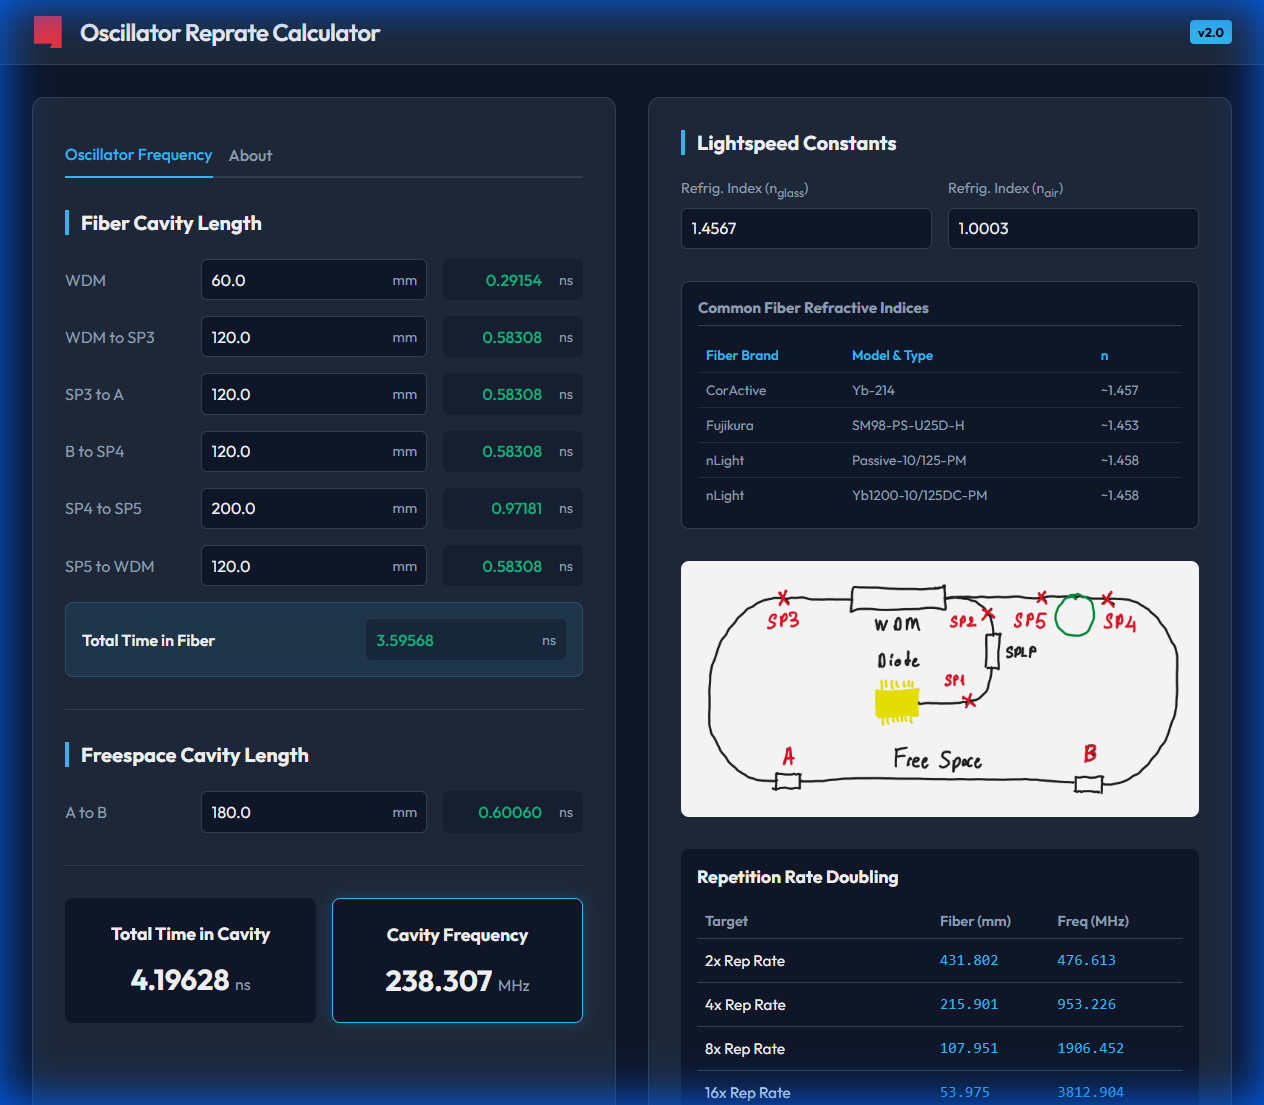
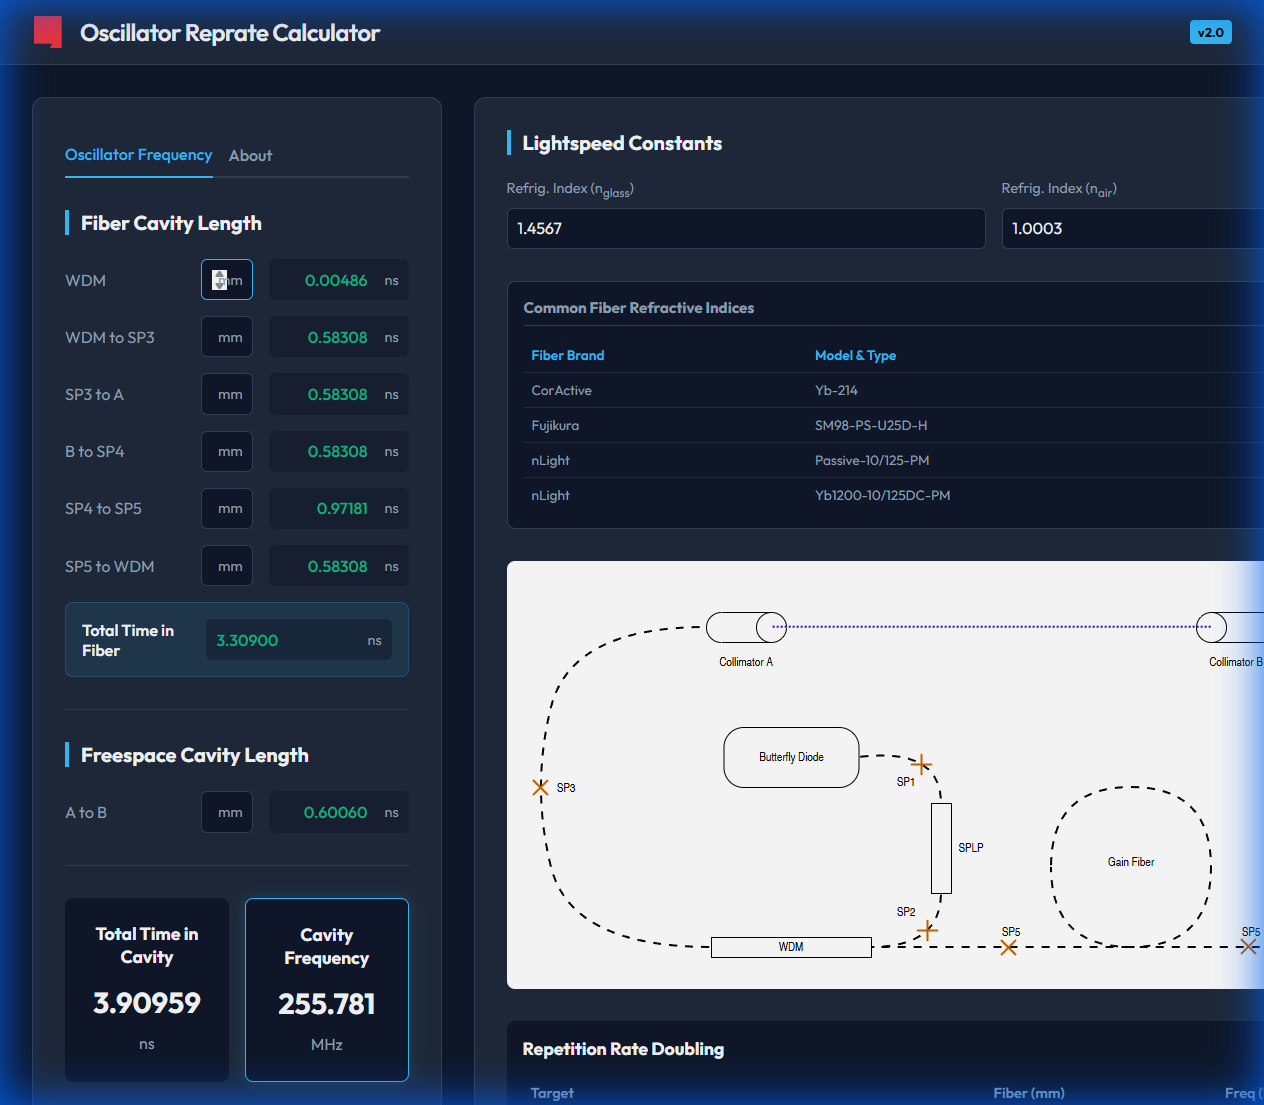
docs: integrate HTML diagram, update readme and screenshot

diff --git a/index.html b/index.html
@@ -228,7 +228,11 @@
             </div>
 
             <div class="diagram-container">
-                <img src="Osc_Diagram.png" alt="Oscillator Diagram">
+                <!-- Embedded Diagram from Osc_Diagram.html -->
+                <div class="mxgraph" style="max-width:100%;border:1px solid transparent;"
+                    data-mxgraph="{&quot;highlight&quot;:&quot;#0000ff&quot;,&quot;nav&quot;:true,&quot;resize&quot;:true,&quot;xml&quot;:&quot;&lt;mxfile host=\&quot;app.diagrams.net\&quot; agent=\&quot;Mozilla/5.0 (Windows NT 10.0; Win64; x64) AppleWebKit/537.36 (KHTML, like Gecko) Chrome/144.0.0.0 Safari/537.36\&quot; version=\&quot;29.3.2\&quot;&gt;&lt;diagram name=\&quot;Page-1\&quot; id=\&quot;DjPBM7zYsvmnyVw7-Pmg\&quot;&gt;&lt;mxGraphModel dx=\&quot;1178\&quot; dy=\&quot;632\&quot; grid=\&quot;1\&quot; gridSize=\&quot;10\&quot; guides=\&quot;1\&quot; tooltips=\&quot;1\&quot; connect=\&quot;1\&quot; arrows=\&quot;1\&quot; fold=\&quot;1\&quot; page=\&quot;1\&quot; pageScale=\&quot;1\&quot; pageWidth=\&quot;1024\&quot; pageHeight=\&quot;512\&quot; math=\&quot;0\&quot; shadow=\&quot;0\&quot;&gt;&lt;root&gt;&lt;mxCell id=\&quot;0\&quot;/&gt;&lt;mxCell id=\&quot;1\&quot; parent=\&quot;0\&quot;/&gt;&lt;mxCell id=\&quot;BOdt_IUTqq0hoijW-HzN-1\&quot; parent=\&quot;1\&quot; style=\&quot;shape=cylinder3;whiteSpace=wrap;html=1;boundedLbl=1;backgroundOutline=1;size=15;rotation=90;\&quot; value=\&quot;\&quot; vertex=\&quot;1\&quot;&gt;&lt;mxGeometry height=\&quot;80\&quot; width=\&quot;30\&quot; x=\&quot;240\&quot; y=\&quot;40\&quot; as=\&quot;geometry\&quot;/&gt;&lt;/mxCell\&gt;&lt;mxCell id=\&quot;BOdt_IUTqq0hoijW-HzN-2\&quot; parent=\&quot;1\&quot; style=\&quot;shape=cylinder3;whiteSpace=wrap;html=1;boundedLbl=1;backgroundOutline=1;size=15;rotation=-90;\&quot; value=\&quot;\&quot; vertex=\&quot;1\&quot;&gt;&lt;mxGeometry height=\&quot;80\&quot; width=\&quot;30\&quot; x=\&quot;730\&quot; y=\&quot;40\&quot; as=\&quot;geometry\&quot;/&gt;&lt;/mxCell\&gt;&lt;mxCell id=\&quot;BOdt_IUTqq0hoijW-HzN-4\&quot; edge=\&quot;1\&quot; parent=\&quot;1\&quot; style=\&quot;endArrow=none;dashed=1;html=1;rounded=1;fillColor=#6a00ff;strokeColor=light-dark(#3700CC,#990000);flowAnimation=1;dashPattern=1 1;strokeWidth=2;curved=0;\&quot; value=\&quot;\&quot;&gt;&lt;mxGeometry height=\&quot;50\&quot; relative=\&quot;1\&quot; width=\&quot;50\&quot; as=\&quot;geometry\&quot;&gt;&lt;mxPoint x=\&quot;280\&quot; y=\&quot;79.71000000000001\&quot; as=\&quot;sourcePoint\&quot;/&gt;&lt;mxPoint x=\&quot;720\&quot; y=\&quot;79.71000000000001\&quot; as=\&quot;targetPoint\&quot;/&gt;&lt;/mxGeometry\&gt;&lt;/mxCell\&gt;&lt;mxCell id=\&quot;BOdt_IUTqq0hoijW-HzN-8\&quot; edge=\&quot;1\&quot; parent=\&quot;1\&quot; source=\&quot;BOdt_IUTqq0hoijW-HzN-15\&quot; style=\&quot;curved=1;endArrow=none;html=1;rounded=0;endFill=0;entryX=0.5;entryY=1;entryDx=0;entryDy=0;entryPerimeter=0;flowAnimation=1;strokeWidth=2;exitX=0;exitY=0.5;exitDx=0;exitDy=0;\&quot; target=\&quot;BOdt_IUTqq0hoijW-HzN-1\&quot; value=\&quot;\&quot;&gt;&lt;mxGeometry height=\&quot;50\&quot; relative=\&quot;1\&quot; width=\&quot;50\&quot; as=\&quot;geometry\&quot;&gt;&lt;Array as=\&quot;points\&quot;&gt;&lt;mxPoint x=\&quot;80\&quot; y=\&quot;400\&quot;/&gt;&lt;mxPoint x=\&quot;40\&quot; y=\&quot;240\&quot;/&gt;&lt;mxPoint x=\&quot;80\&quot; y=\&quot;80\&quot;/&gt;&lt;/Array\&gt;&lt;mxPoint x=\&quot;215\&quot; y=\&quot;400\&quot; as=\&quot;sourcePoint\&quot;/&gt;&lt;mxPoint x=\&quot;210\&quot; y=\&quot;80\&quot; as=\&quot;targetPoint\&quot;/&gt;&lt;/mxGeometry\&gt;&lt;/mxCell\&gt;&lt;mxCell id=\&quot;BOdt_IUTqq0hoijW-HzN-15\&quot; parent=\&quot;1\&quot; style=\&quot;rounded=0;whiteSpace=wrap;html=1;\&quot; value=\&quot;WDM\&quot; vertex=\&quot;1\&quot;&gt;&lt;mxGeometry height=\&quot;20\&quot; width=\&quot;160\&quot; x=\&quot;220\&quot; y=\&quot;390\&quot; as=\&quot;geometry\&quot;/&gt;&lt;/mxCell\&gt;&lt;mxCell id=\&quot;BOdt_IUTqq0hoijW-HzN-16\&quot; edge=\&quot;1\&quot; parent=\&quot;1\&quot; source=\&quot;BOdt_IUTqq0hoijW-HzN-17\&quot; style=\&quot;curved=1;endArrow=none;html=1;rounded=0;endFill=0;strokeWidth=2;flowAnimation=1;exitX=1;exitY=0.5;exitDx=0;exitDy=0;entryX=0.5;entryY=0;entryDx=0;entryDy=0;\&quot; target=\&quot;BOdt_IUTqq0hoijW-HzN-21\&quot; value=\&quot;\&quot;&gt;&lt;mxGeometry height=\&quot;50\&quot; relative=\&quot;1\&quot; width=\&quot;50\&quot; as=\&quot;geometry\&quot;&gt;&lt;Array as=\&quot;points\&quot;&gt;&lt;mxPoint x=\&quot;450\&quot; y=\&quot;200\&quot;/&gt;&lt;/Array\&gt;&lt;mxPoint x=\&quot;380\&quot; y=\&quot;240\&quot; as=\&quot;sourcePoint\&quot;/&gt;&lt;mxPoint x=\&quot;480\&quot; y=\&quot;270\&quot; as=\&quot;targetPoint\&quot;/&gt;&lt;/mxGeometry\&gt;&lt;/mxCell\&gt;&lt;mxCell id=\&quot;BOdt_IUTqq0hoijW-HzN-17\&quot; parent=\&quot;1\&quot; style=\&quot;rounded=1;whiteSpace=wrap;html=1;perimeterSpacing=0;arcSize=33;\&quot; value=\&quot;Butterfly Diode\&quot; vertex=\&quot;1\&quot;&gt;&lt;mxGeometry height=\&quot;60\&quot; width=\&quot;135\&quot; x=\&quot;232.5\&quot; y=\&quot;180\&quot; as=\&quot;geometry\&quot;/&gt;&lt;/mxCell\&gt;&lt;mxCell id=\&quot;BOdt_IUTqq0hoijW-HzN-18\&quot; parent=\&quot;1\&quot; style=\&quot;text;html=1;whiteSpace=wrap;strokeColor=none;fillColor=none;align=center;verticalAlign=middle;rounded=0;autosize=1;resizable=0;\&quot; value=\&quot;Collimator A\&quot; vertex=\&quot;1\&quot;&gt;&lt;mxGeometry height=\&quot;30\&quot; width=\&quot;90\&quot; x=\&quot;210\&quot; y=\&quot;100\&quot; as=\&quot;geometry\&quot;/&gt;&lt;/mxCell\&gt;&lt;mxCell id=\&quot;BOdt_IUTqq0hoijW-HzN-19\&quot; parent=\&quot;1\&quot; style=\&quot;text;html=1;whiteSpace=wrap;strokeColor=none;fillColor=none;align=center;verticalAlign=middle;rounded=0;autosize=1;resizable=0;\&quot; value=\&quot;Collimator B\&quot; vertex=\&quot;1\&quot;&gt;&lt;mxGeometry height=\&quot;30\&quot; width=\&quot;90\&quot; x=\&quot;700\&quot; y=\&quot;100\&quot; as=\&quot;geometry\&quot;/&gt;&lt;/mxCell\&gt;&lt;mxCell id=\&quot;BOdt_IUTqq0hoijW-HzN-21\&quot; parent=\&quot;1\&quot; style=\&quot;rounded=0;whiteSpace=wrap;html=1;\&quot; value=\&quot;\&quot; vertex=\&quot;1\&quot;&gt;&lt;mxGeometry height=\&quot;90\&quot; width=\&quot;20\&quot; x=\&quot;440\&quot; y=\&quot;256\&quot; as=\&quot;geometry\&quot;/&gt;&lt;/mxCell\&gt;&lt;mxCell id=\&quot;BOdt_IUTqq0hoijW-HzN-22\&quot; edge=\&quot;1\&quot; parent=\&quot;1\&quot; source=\&quot;BOdt_IUTqq0hoijW-HzN-21\&quot; style=\&quot;curved=1;endArrow=none;html=1;rounded=0;endFill=0;strokeWidth=2;flowAnimation=1;exitX=0.5;exitY=1;exitDx=0;exitDy=0;entryX=1;entryY=0.5;entryDx=0;entryDy=0;\&quot; target=\&quot;BOdt_IUTqq0hoijW-HzN-15\&quot; value=\&quot;\&quot;&gt;&lt;mxGeometry height=\&quot;50\&quot; relative=\&quot;1\&quot; width=\&quot;50\&quot; as=\&quot;geometry\&quot;&gt;&lt;Array as=\&quot;points\&quot;&gt;&lt;mxPoint x=\&quot;450\&quot; y=\&quot;400\&quot;/&gt;&lt;/Array\&gt;&lt;mxPoint x=\&quot;440\&quot; y=\&quot;382\&quot; as=\&quot;sourcePoint\&quot;/&gt;&lt;mxPoint x=\&quot;522\&quot; y=\&quot;428\&quot; as=\&quot;targetPoint\&quot;/&gt;&lt;/mxGeometry\&gt;&lt;/mxCell\&gt;&lt;mxCell id=\&quot;BOdt_IUTqq0hoijW-HzN-23\&quot; edge=\&quot;1\&quot; parent=\&quot;1\&quot; style=\&quot;curved=1;endArrow=none;html=1;rounded=0;endFill=0;strokeWidth=2;flowAnimation=1;strokeColor=light-dark(#000000,#009900);\&quot; value=\&quot;\&quot;&gt;&lt;mxGeometry height=\&quot;50\&quot; relative=\&quot;1\&quot; width=\&quot;50\&quot; as=\&quot;geometry\&quot;&gt;&lt;Array as=\&quot;points\&quot;&gt;&lt;mxPoint x=\&quot;560\&quot; y=\&quot;240\&quot;/&gt;&lt;mxPoint x=\&quot;720\&quot; y=\&quot;240\&quot;/&gt;&lt;mxPoint x=\&quot;720\&quot; y=\&quot;400\&quot;/&gt;&lt;mxPoint x=\&quot;560\&quot; y=\&quot;400\&quot;/&gt;&lt;/Array\&gt;&lt;mxPoint x=\&quot;560\&quot; y=\&quot;320\&quot; as=\&quot;sourcePoint\&quot;/&gt;&lt;mxPoint x=\&quot;560\&quot; y=\&quot;320\&quot; as=\&quot;targetPoint\&quot;/&gt;&lt;/mxGeometry\&gt;&lt;/mxCell\&gt;&lt;mxCell id=\&quot;BOdt_IUTqq0hoijW-HzN-24\&quot; edge=\&quot;1\&quot; parent=\&quot;1\&quot; source=\&quot;BOdt_IUTqq0hoijW-HzN-2\&quot; style=\&quot;curved=1;endArrow=none;html=1;rounded=0;endFill=0;flowAnimation=1;strokeWidth=2;exitX=0.5;exitY=1;exitDx=0;exitDy=0;exitPerimeter=0;\&quot; value=\&quot;\&quot;&gt;&lt;mxGeometry height=\&quot;50\&quot; relative=\&quot;1\&quot; width=\&quot;50\&quot; as=\&quot;geometry\&quot;&gt;&lt;Array as=\&quot;points\&quot;&gt;&lt;mxPoint x=\&quot;920\&quot; y=\&quot;80\&quot;/&gt;&lt;mxPoint x=\&quot;960\&quot; y=\&quot;240\&quot;/&gt;&lt;mxPoint x=\&quot;920\&quot; y=\&quot;400\&quot;/&gt;&lt;mxPoint x=\&quot;760\&quot; y=\&quot;400\&quot;/&gt;&lt;/Array\&gt;&lt;mxPoint x=\&quot;800\&quot; y=\&quot;80\&quot; as=\&quot;sourcePoint\&quot;/&gt;&lt;mxPoint x=\&quot;640\&quot; y=\&quot;400\&quot; as=\&quot;targetPoint\&quot;/&gt;&lt;/mxGeometry\&gt;&lt;/mxCell\&gt;&lt;mxCell id=\&quot;BOdt_IUTqq0hoijW-HzN-25\&quot; edge=\&quot;1\&quot; parent=\&quot;1\&quot; style=\&quot;curved=1;endArrow=none;html=1;rounded=0;endFill=0;strokeWidth=2;flowAnimation=1;entryX=1;entryY=0.5;entryDx=0;entryDy=0;\&quot; target=\&quot;BOdt_IUTqq0hoijW-HzN-15\&quot; value=\&quot;\&quot;&gt;&lt;mxGeometry height=\&quot;50\&quot; relative=\&quot;1\&quot; width=\&quot;50\&quot; as=\&quot;geometry\&quot;&gt;&lt;Array as=\&quot;points\&quot;&gt;&lt;mxPoint x=\&quot;520\&quot; y=\&quot;400\&quot;/&gt;&lt;/Array\&gt;&lt;mxPoint x=\&quot;640\&quot; y=\&quot;400\&quot; as=\&quot;sourcePoint\&quot;/&gt;&lt;mxPoint x=\&quot;560\&quot; y=\&quot;524\&quot; as=\&quot;targetPoint\&quot;/&gt;&lt;/mxGeometry\&gt;&lt;/mxCell\&gt;&lt;mxCell id=\&quot;BOdt_IUTqq0hoijW-HzN-26\&quot; parent=\&quot;1\&quot; style=\&quot;text;html=1;whiteSpace=wrap;strokeColor=none;fillColor=none;align=center;verticalAlign=middle;rounded=0;autosize=1;resizable=0;\&quot; value=\&quot;Gain Fiber\&quot; vertex=\&quot;1\&quot;&gt;&lt;mxGeometry height=\&quot;30\&quot; width=\&quot;80\&quot; x=\&quot;600\&quot; y=\&quot;300\&quot; as=\&quot;geometry\&quot;/&gt;&lt;/mxCell\&gt;&lt;mxCell id=\&quot;BOdt_IUTqq0hoijW-HzN-28\&quot; parent=\&quot;1\&quot; style=\&quot;text;html=1;whiteSpace=wrap;strokeColor=none;fillColor=none;align=center;verticalAlign=middle;rounded=0;\&quot; value=\&quot;SPLP\&quot; vertex=\&quot;1\&quot;&gt;&lt;mxGeometry height=\&quot;30\&quot; width=\&quot;60\&quot; x=\&quot;450\&quot; y=\&quot;286\&quot; as=\&quot;geometry\&quot;/&gt;&lt;/mxCell\&gt;&lt;mxCell id=\&quot;BOdt_IUTqq0hoijW-HzN-29\&quot; parent=\&quot;1\&quot; style=\&quot;text;html=1;whiteSpace=wrap;strokeColor=none;fillColor=none;align=center;verticalAlign=middle;rounded=0;autosize=1;resizable=0;\&quot; value=\&quot;SP3\&quot; vertex=\&quot;1\&quot;&gt;&lt;mxGeometry height=\&quot;30\&quot; width=\&quot;50\&quot; x=\&quot;50\&quot; y=\&quot;226\&quot; as=\&quot;geometry\&quot;/&gt;&lt;/mxCell\&gt;&lt;mxCell id=\&quot;BOdt_IUTqq0hoijW-HzN-30\&quot; parent=\&quot;1\&quot; style=\&quot;text;html=1;whiteSpace=wrap;strokeColor=none;fillColor=none;align=center;verticalAlign=middle;rounded=0;autosize=1;resizable=0;\&quot; value=\&quot;SP4\&quot; vertex=\&quot;1\&quot;&gt;&lt;mxGeometry height=\&quot;30\&quot; width=\&quot;50\&quot; x=\&quot;896\&quot; y=\&quot;226\&quot; as=\&quot;geometry\&quot;/&gt;&lt;/mxCell\&gt;&lt;mxCell id=\&quot;BOdt_IUTqq0hoijW-HzN-31\&quot; parent=\&quot;1\&quot; style=\&quot;text;html=1;whiteSpace=wrap;strokeColor=none;fillColor=none;align=center;verticalAlign=middle;rounded=0;autosize=1;resizable=0;\&quot; value=\&quot;SP5\&quot; vertex=\&quot;1\&quot;&gt;&lt;mxGeometry height=\&quot;30\&quot; width=\&quot;50\&quot; x=\&quot;735\&quot; y=\&quot;370\&quot; as=\&quot;geometry\&quot;/&gt;&lt;/mxCell\&gt;&lt;mxCell id=\&quot;BOdt_IUTqq0hoijW-HzN-32\&quot; parent=\&quot;1\&quot; style=\&quot;text;html=1;whiteSpace=wrap;strokeColor=none;fillColor=none;align=center;verticalAlign=middle;rounded=0;autosize=1;resizable=0;\&quot; value=\&quot;SP5\&quot; vertex=\&quot;1\&quot;&gt;&lt;mxGeometry height=\&quot;30\&quot; width=\&quot;50\&quot; x=\&quot;495\&quot; y=\&quot;370\&quot; as=\&quot;geometry\&quot;/&gt;&lt;/mxCell\&gt;&lt;mxCell id=\&quot;BOdt_IUTqq0hoijW-HzN-33\&quot; parent=\&quot;1\&quot; style=\&quot;text;html=1;whiteSpace=wrap;strokeColor=none;fillColor=none;align=center;verticalAlign=middle;rounded=0;autosize=1;resizable=0;\&quot; value=\&quot;SP1\&quot; vertex=\&quot;1\&quot;&gt;&lt;mxGeometry height=\&quot;30\&quot; width=\&quot;50\&quot; x=\&quot;390\&quot; y=\&quot;220\&quot; as=\&quot;geometry\&quot;/&gt;&lt;/mxCell\&gt;&lt;mxCell id=\&quot;BOdt_IUTqq0hoijW-HzN-34\&quot; parent=\&quot;1\&quot; style=\&quot;text;html=1;whiteSpace=wrap;strokeColor=none;fillColor=none;align=center;verticalAlign=middle;rounded=0;autosize=1;resizable=0;\&quot; value=\&quot;SP2\&quot; vertex=\&quot;1\&quot;&gt;&lt;mxGeometry height=\&quot;30\&quot; width=\&quot;50\&quot; x=\&quot;390\&quot; y=\&quot;350\&quot; as=\&quot;geometry\&quot;/&gt;&lt;/mxCell\&gt;&lt;mxCell id=\&quot;BOdt_IUTqq0hoijW-HzN-38\&quot; parent=\&quot;1\&quot; style=\&quot;shape=mxgraph.sysml.x;fillColor=#f5f5f5;fontColor=#333333;strokeColor=light-dark(#CC6600,#CC6600);strokeWidth=2;align=center;verticalAlign=middle;fontFamily=Helvetica;fontSize=12;\&quot; value=\&quot;\&quot; vertex=\&quot;1\&quot;&gt;&lt;mxGeometry height=\&quot;15\&quot; width=\&quot;15\&quot; x=\&quot;42\&quot; y=\&quot;233\&quot; as=\&quot;geometry\&quot;/&gt;&lt;/mxCell\&gt;&lt;mxCell id=\&quot;BOdt_IUTqq0hoijW-HzN-39\&quot; parent=\&quot;1\&quot; style=\&quot;shape=mxgraph.sysml.x;fillColor=#f5f5f5;fontColor=#333333;strokeColor=light-dark(#CC6600,#CC6600);strokeWidth=2;align=center;verticalAlign=middle;fontFamily=Helvetica;fontSize=12;\&quot; value=\&quot;\&quot; vertex=\&quot;1\&quot;&gt;&lt;mxGeometry height=\&quot;15\&quot; width=\&quot;15\&quot; x=\&quot;510\&quot; y=\&quot;393\&quot; as=\&quot;geometry\&quot;/&gt;&lt;/mxCell\&gt;&lt;mxCell id=\&quot;BOdt_IUTqq0hoijW-HzN-43\&quot; parent=\&quot;1\&quot; style=\&quot;shape=mxgraph.sysml.x;fillColor=#f5f5f5;fontColor=#333333;strokeColor=light-dark(#CC6600,#CC6600);strokeWidth=2;align=center;verticalAlign=middle;fontFamily=Helvetica;fontSize=12;\&quot; value=\&quot;\&quot; vertex=\&quot;1\&quot;&gt;&lt;mxGeometry height=\&quot;15\&quot; width=\&quot;15\&quot; x=\&quot;750\&quot; y=\&quot;392\&quot; as=\&quot;geometry\&quot;/&gt;&lt;/mxCell\&gt;&lt;mxCell id=\&quot;BOdt_IUTqq0hoijW-HzN-44\&quot; parent=\&quot;1\&quot; style=\&quot;shape=mxgraph.sysml.x;fillColor=#f5f5f5;fontColor=#333333;strokeColor=light-dark(#CC6600,#CC6600);strokeWidth=2;align=center;verticalAlign=middle;fontFamily=Helvetica;fontSize=12;\&quot; value=\&quot;\&quot; vertex=\&quot;1\&quot;&gt;&lt;mxGeometry height=\&quot;15\&quot; width=\&quot;15\&quot; x=\&quot;943\&quot; y=\&quot;233\&quot; as=\&quot;geometry\&quot;/&gt;&lt;/mxCell\&gt;&lt;mxCell id=\&quot;BOdt_IUTqq0hoijW-HzN-45\&quot; parent=\&quot;1\&quot; style=\&quot;shape=mxgraph.sysml.x;fillColor=#f5f5f5;fontColor=#333333;strokeColor=light-dark(#CC6600,#CC6600);rotation=45;strokeWidth=2;align=center;verticalAlign=middle;fontFamily=Helvetica;fontSize=12;\&quot; value=\&quot;\&quot; vertex=\&quot;1\&quot;&gt;&lt;mxGeometry height=\&quot;15\&quot; width=\&quot;15\&quot; x=\&quot;423\&quot; y=\&quot;210\&quot; as=\&quot;geometry\&quot;/&gt;&lt;/mxCell\&gt;&lt;mxCell id=\&quot;BOdt_IUTqq0hoijW-HzN-46\&quot; parent=\&quot;1\&quot; style=\&quot;shape=mxgraph.sysml.x;fillColor=#f5f5f5;fontColor=#333333;strokeColor=light-dark(#CC6600,#CC6600);rotation=45;strokeWidth=2;perimeterSpacing=0;\&quot; value=\&quot;\&quot; vertex=\&quot;1\&quot;&gt;&lt;mxGeometry height=\&quot;15\&quot; width=\&quot;15\&quot; x=\&quot;429\&quot; y=\&quot;376\&quot; as=\&quot;geometry\&quot;/&gt;&lt;/mxCell\&gt;&lt;/root\&gt;&lt;/mxGraphModel\&gt;&lt;/diagram\&gt;&lt;/mxfile\&gt;&quot;,&quot;toolbar&quot;:&quot;pages zoom layers lightbox&quot;,&quot;page\&quot;:0}">
+                </div>
+                <script type="text/javascript" src="https://app.diagrams.net/js/viewer-static.min.js"></script>
             </div>
 
             <div class="multiplier-section">

diff --git a/README.md b/README.md
@@ -1,40 +1,50 @@
-# Reprate Calculator v2.0
+# Oscillator-Reprate Calculator v2.0
 
-A modern, lightweight **Web Application** for calculating repetition rate related parameters in laser systems.  
-Originally a desktop app, v2.0 has been re-engineered as a zero-install web tool that runs instantly in any browser.
+![Oscillator Diagram](Osc_Diagram.png)
+*(Click to view interactive diagram in the web app)*
 
----
+## 🚀 Overview
 
-## 📸 Screenshot
+**Oscillator-Reprate Calculator** is a specialized precision tool designed for laser physicists and optical engineers. It allows for the rapid calculation of fiber laser oscillator properties, specifically focusing on **cavity frequency**, **total time**, and **input/output fiber lengths** required for repetition rate doubling.
 
-![App Screenshot](https://github.com/Alptknt/Reprate_Calculator/blob/main/Screenshot.png?raw=true)
-
----
+Unlike basic calculators, this tool accounts for the different **refractive indices** of fiber and air, ensuring high-accuracy results for free-space and fiber-coupled segments.
 
 ## ✨ Features
 
-- **Zero Install**: Runs directly in your browser.
-- **Cross-Platform**: Works on Windows, macOS, Linux, iOS, and Android.
-- **Secure**: No executable files, no security warnings.
-- **Lightweight**: < 1MB total size.
+-   **Precision Calculation**: Computes total cavity time (ns) and frequency (MHz) based on individual fiber segment lengths (mm) and free-space paths.
+-   **Refractive Index Support**: Input specific refractive indices ($n_{glass}$ and $n_{air}$) for accurate speed of light calculations ($c/n$).
+-   **Reference Table**: Built-in quick reference for common fiber types (CorActive, Fujikura, nLight).
+-   **Repetition Rate Doubling**: Automatically calculates the required fiber lengths to achieve $2x, 4x, 8x, 16x$ repetition rates.
+-   **Modern Web UI**: A clean, dark-themed responsive interface with real-time updates.
+-   **Zero Installation**: Runs entirely in the browser as a single-page application.
 
----
+## 🛠 Usage
 
-## 🚀 How to Use
+1.  **Open the App**: Simply open `index.html` in any modern web browser.
+2.  **Configure Constants**:
+    *   Enter the **Refractive Index** for your fiber (e.g., `1.45`).
+    *   Enter the **Refractive Index** for air (e.g., `1.0002`).
+3.  **Input Lengths**:
+    *   Enter the lengths of your fiber segments in **millimeters (mm)**.
+    *   Enter the free-space path length in **millimeters (mm)**.
+4.  **View Results**:
+    *   **Total Time**: The round-trip time of the optical pulse in nanoseconds.
+    *   **Cavity Frequency**: The fundamental frequency of the oscillator in MHz.
+5.  **Multiplier**: Check the bottom table for the exact fiber lengths needed to multiply the repetition rate.
 
-### Option 1: Run Locally
-1. Download the `Reprate_Calculator_WebApp.zip` from the [Releases](https://github.com/Alptknt/Reprate_Calculator/releases) page.
-2. Extract the zip file.
-3. Specific `index.html` to launch the calculator.
+## 📦 Installation & Release
 
-### Option 2: Development
-Clone the repository and modify the files:
+This project is now a **Web Application**. You do not need to install Python or any dependencies.
 
-```bash
-git clone https://github.com/Alptknt/Reprate_Calculator.git
-cd Reprate_Calculator
-# Open index.html in your browser
-```
+### Running Locally
+1.  Clone the repository:
+    ```bash
+    git clone https://github.com/Alptknt/Reprate_Calculator.git
+    ```
+2.  Open `index.html` in your browser.
 
-## 📜 Legacy Version
-The original Python/Tkinter desktop application source code is archived in the `legacy/` directory for reference.
+### Releases
+Download the latest version from the [Releases Page](../../releases).
+*   **v2.0**: The complete Web Application overhaul (HTML/CSS/JS).
+
+![UI Screenshot](Screenshot.png)
